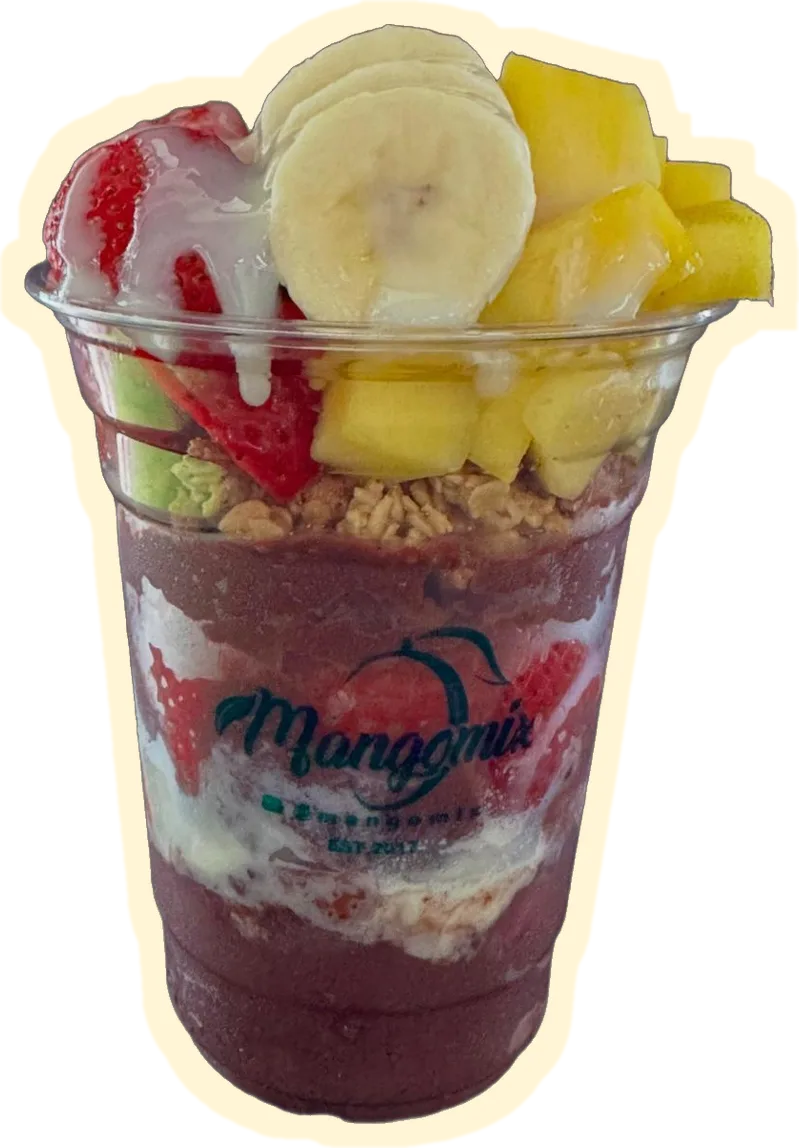
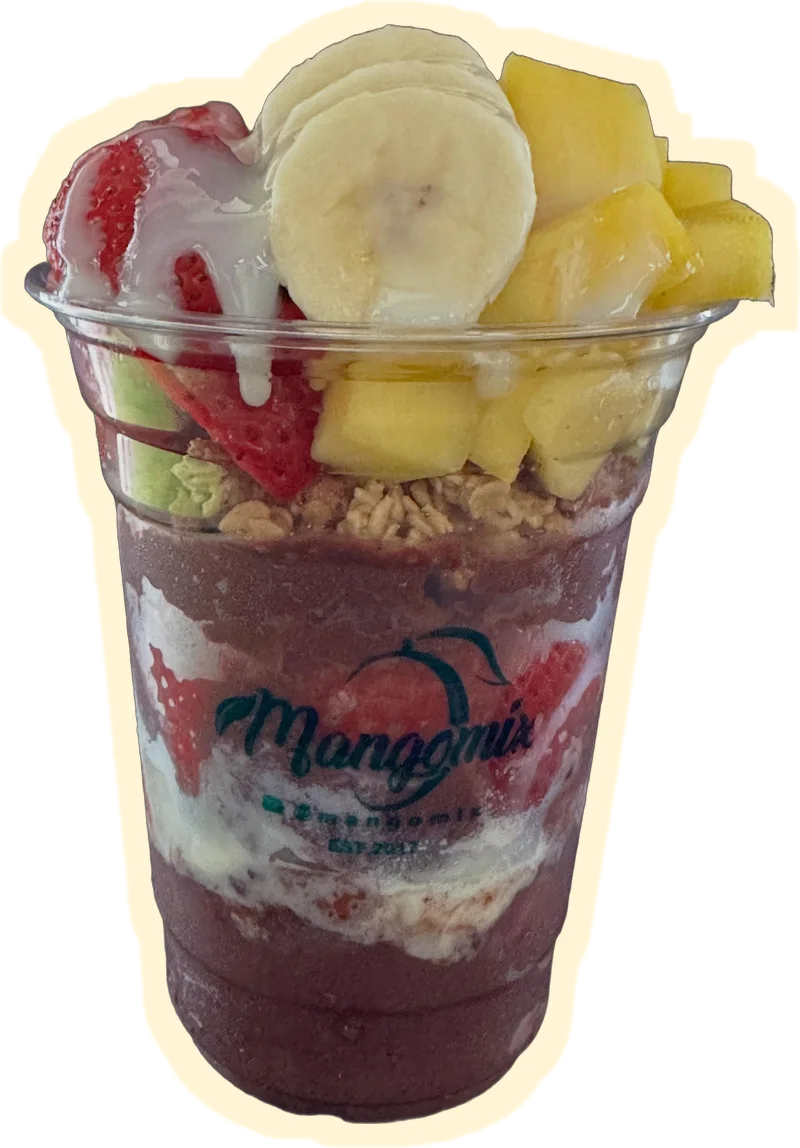
Sharper photos from client originals, add strawberry milkshake
- Mango cup and acai cut from full-size originals
- Sharper founder photo (612px source, AI-upscaled)
- New favourite: strawberry milkshake
- Slightly smaller favourite headlines so long names fit
- README: DoorDash/Uber Eats pitch note, photo sources

Claude-Session: https://claude.ai/code/session_01Lce5qaLqHvjhyEbTRKrxMg

diff --git a/js/app.js b/js/app.js
@@ -1,4 +1,4 @@
-const IMG = {mango:"assets/img/mango-cup.webp",fresas:"assets/img/fresas-con-crema.webp",acai:"assets/img/acai.webp",pina:"assets/img/pina-loca.webp",sandia:"assets/img/sandia-con-mango.webp",shake:"assets/img/chocolate-shake.webp"};
+const IMG = {mango:"assets/img/mango-cup.webp",fresas:"assets/img/fresas-con-crema.webp",acai:"assets/img/acai.webp",pina:"assets/img/pina-loca.webp",sandia:"assets/img/sandia-con-mango.webp",fresashake:"assets/img/strawberry-milkshake.webp",shake:"assets/img/chocolate-shake.webp"};
 const T = {
   en:{skip:"Skip to menu",navMenu:"Menu",navCup:"Build a cup",navVisit:"Visit",heroP:"Colombian fruit bar since 2017. Cut to order, piled high, Tampa Bay.",heroCta:"Find us",favsH:"Los favoritos",favsL:"What everyone posts about",alsoH:"And also",
     founderP:"The Colombian fruit stand, brought to Tampa. Fruit cut in front of you, cups filled until they overflow, the way it is done back home.",founderCap:"The founder, fruit in hand.",
@@ -25,7 +25,8 @@ const FAVS = [
   {id:"mangocup",p:9,img:"mango",r:"-5deg",en:["Mango cup","A whole cup of mango, cut into long ribbons. Nothing added, nothing needed.","Fresh fruit"],es:["Vaso de mango","Un vaso entero de mango cortado en tiras largas. Nada más, no hace falta.","Fruta fresca"]},
   {id:"acai",p:12,img:"acai",r:"5deg",en:["Açaí","Thick açaí with granola, banana, mango and strawberry on top.","Cold"],es:["Açaí","Açaí espeso con granola, banano, mango y fresa encima.","Frío"]},
   {id:"sandia",p:9,img:"sandia",r:"-4deg",en:["Sandía con mango","Icy watermelon with fruit inside, crowned with ribbons of green mango.","Refreshing"],es:["Sandía con mango","Sandía helada con fruta adentro, coronada con tiras de mango verde.","Refrescante"]},
-  {id:"choco",p:9,img:"shake",r:"6deg",en:["Chocolate shake","Thick chocolate shake, whipped cream, cocoa and a waffle on top.","Sweet"],es:["Batido de chocolate","Batido espeso de chocolate, crema batida, cacao y un waffle encima.","Dulce"]}
+  {id:"choco",p:9,img:"shake",r:"6deg",en:["Chocolate shake","Thick chocolate shake, whipped cream, cocoa and a waffle on top.","Sweet"],es:["Batido de chocolate","Batido espeso de chocolate, crema batida, cacao y un waffle encima.","Dulce"]},
+  {id:"fresashake",p:9,img:"fresashake",r:"-5deg",en:["Strawberry milkshake","Strawberry shake swirled with strawberry syrup, piled with whipped cream and a chocolate on top.","Sweet"],es:["Malteada de fresa","Batido de fresa con sirope de fresa, mucha crema batida y un chocolate encima.","Dulce"]}
 ];
 const EXTRA = [
   {id:"fresas",p:10,en:["Fresas con crema"],es:["Fresas con crema"]},

diff --git a/css/style.css b/css/style.css
@@ -70,7 +70,7 @@
   .fav.flip{grid-template-columns:minmax(0,5fr) minmax(0,7fr)}
   .fav.flip .txt{order:2;text-align:right}
   .fav.flip .txt p{margin-left:auto}
-  .fav .big{font-size:clamp(80px,11vw,190px)}
+  .fav .big{font-size:clamp(72px,9.5vw,170px)}
   .fav .txt p{margin-top:3vh;max-width:36ch;font-size:20px}
   .fav .txt .label{display:block;margin-bottom:2.5vh;opacity:.75}
   .fav img{width:100%;max-width:440px;justify-self:center;transform:rotate(var(--r,4deg))}

diff --git a/README.md b/README.md
@@ -37,13 +37,16 @@ assets/source/          bigger source images, for re-cutting or re-exporting
 ## Photos
 
 - From the Mangomix Instagram. Mango cup, açaí, sandía con mango and chocolate shake are full-size originals.
-- Fresas con crema, piña loca and the founder photo only exist as small video covers, so they were
-  AI-upscaled (`*-ai-upscaled.jpg`). The founder photo is still a bit soft: replace when the owner sends originals.
+- Strawberry milkshake came from a 1080px promo graphic and was cut out and AI-upscaled.
+- Fresas con crema and piña loca only exist as small video covers, so they were AI-upscaled
+  (`*-ai-upscaled.jpg`). The founder photo (612px) was also AI-upscaled; replace when the owner sends originals.
 - Fresas con crema and piña loca came from Halloween posts. Backgrounds were removed.
 - Stickers have a cream outline baked into the image. To make new ones: remove background, add a
   cream (#FFF4D6) outline about 24px wide, export as .webp around 1100px tall.
 
 ## Facts used on the site
+
+- They already sell on DoorDash and Uber Eats (shown on their own promo graphics). Pitch angle: direct pickup orders on their own site, no app commission.
 
 - Two locations: 6804 N Armenia Ave, Tampa FL and KRATE at The Grove, 5903 Goldview Pkwy, Wesley Chapel FL.
 - "Since 2017": printed on their cups ("EST. 2017").
